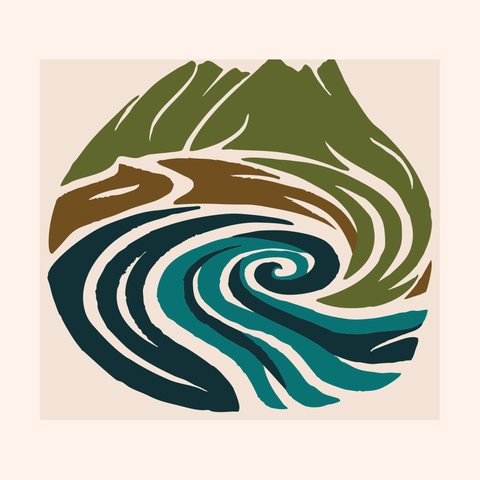
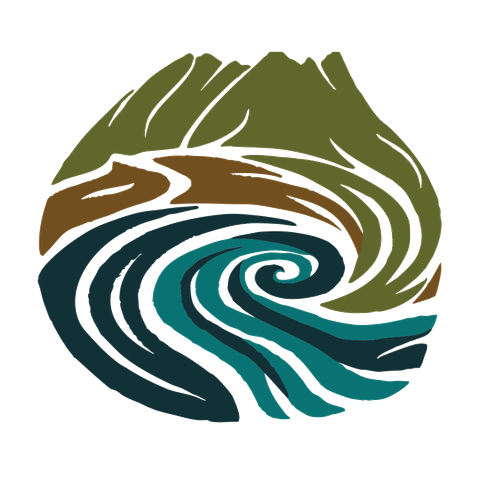
Refine header to brand + add "Why a co-op" section
- Wordmark on one line in a Watkins-like bold sans (Bricolage Grotesque
  stands in), sized to match the logo; solid parchment nav.
- Emblem now transparent-background (light + dark) so it blends into the
  nav/footer instead of sitting on a paper rectangle.
- New "Why a co-op?" section: shared ownership, lower risk, everyone
  invested. Photos/recordings stay as placeholders per request.

diff --git a/styles.css b/styles.css
@@ -36,6 +36,7 @@
      Watkins & Rugpull aren't web-hosted; Playfair Display stands in for the
      display face until the licensed fonts are self-hosted. Inter is exact. */
   --font-display:"Playfair Display", Georgia, "Times New Roman", serif;
+  --font-brand:"Bricolage Grotesque", "Inter", system-ui, sans-serif; /* stands in for Watkins (logo/wordmark) */
   --font-body:"Inter", system-ui, -apple-system, sans-serif;
   --font-script:"Caveat", "Segoe Script", cursive;
   /* drop-in hero image goes here when available */
@@ -83,16 +84,15 @@ p{margin:0}
 .textlink--light{color:var(--on-forest)}
 
 /* ---------- Nav ---------- */
-.nav{position:sticky;top:0;z-index:60;background:color-mix(in srgb,var(--cream) 90%,transparent);
-  backdrop-filter:saturate(1.3) blur(10px);border-bottom:1px solid var(--line)}
-.nav__inner{max-width:var(--maxw);margin:0 auto;padding:14px 28px;display:flex;
+.nav{position:sticky;top:0;z-index:60;background:var(--cream);border-bottom:1px solid var(--line)}
+.nav__inner{max-width:var(--maxw);margin:0 auto;padding:12px 28px;display:flex;
   align-items:center;justify-content:space-between;gap:20px}
-.brand{display:flex;align-items:center;gap:12px;text-decoration:none;color:var(--forest)}
-.brand__emblem{width:46px;height:46px;flex:none}
-.brand__name{font-family:var(--font-display);font-weight:700;font-size:1.05rem;line-height:1;
-  letter-spacing:.01em}
-.brand__tag{font-family:var(--font-body);font-size:.54rem;font-weight:700;letter-spacing:.2em;
-  text-transform:uppercase;color:var(--muted);margin-top:5px}
+.brand{display:flex;align-items:center;gap:13px;text-decoration:none;color:var(--forest)}
+.brand__emblem{width:54px;height:54px;flex:none}
+.brand__name{font-family:var(--font-brand);font-weight:800;font-size:clamp(1.15rem,3.4vw,1.5rem);
+  line-height:.98;letter-spacing:.005em;text-transform:uppercase;white-space:nowrap;color:var(--forest)}
+.brand__tag{font-family:var(--font-body);font-size:.53rem;font-weight:700;letter-spacing:.15em;
+  text-transform:uppercase;color:var(--muted);margin-top:5px;white-space:nowrap}
 .nav__links{display:flex;align-items:center;gap:6px;list-style:none;margin:0;padding:0}
 .nav__links a{text-decoration:none;font-size:.82rem;font-weight:600;letter-spacing:.02em;
   color:var(--ink);opacity:.8;padding:8px 12px;border-radius:8px;transition:opacity .15s,background .15s}
@@ -160,6 +160,18 @@ p{margin:0}
 .value p{font-size:.88rem;color:var(--muted);max-width:20ch}
 @media (max-width:900px){.values__grid{grid-template-columns:repeat(3,1fr);gap:28px}}
 @media (max-width:520px){.values__grid{grid-template-columns:repeat(2,1fr)}}
+
+/* ---------- Why a co-op ---------- */
+.whyco{background:var(--paper);padding-block:clamp(56px,8vw,96px);border-top:1px solid var(--line)}
+.whyco__head{max-width:660px;margin-bottom:2.6rem}
+.whyco h2{font-size:clamp(1.9rem,3.6vw,2.6rem);margin-bottom:.9rem}
+.whyco__lead{color:var(--muted);font-size:1.12rem;max-width:56ch}
+.whyco__grid{display:grid;grid-template-columns:repeat(3,1fr);gap:24px}
+.whyco__item{border-top:2px solid var(--pine);padding-top:16px}
+.whyco__item h3{font-family:var(--font-body);font-weight:800;font-size:.8rem;letter-spacing:.12em;
+  text-transform:uppercase;color:var(--pine);margin-bottom:.5rem}
+.whyco__item p{color:var(--muted);font-size:.98rem}
+@media (max-width:760px){.whyco__grid{grid-template-columns:1fr;gap:20px}}
 
 /* ---------- Cohort (dark, two-column) ---------- */
 .cohort{background:var(--forest);color:var(--on-forest);position:relative;overflow:hidden}

diff --git a/index.html b/index.html
@@ -12,7 +12,7 @@
   <link rel="icon" type="image/png" href="assets/favicon.png">
   <link rel="preconnect" href="https://fonts.googleapis.com">
   <link rel="preconnect" href="https://fonts.gstatic.com" crossorigin>
-  <link rel="stylesheet" href="https://fonts.googleapis.com/css2?family=Playfair+Display:ital,wght@0,500;0,600;0,700;1,500&family=Inter:wght@400;500;600;700;800&family=Caveat:wght@600;700&display=swap">
+  <link rel="stylesheet" href="https://fonts.googleapis.com/css2?family=Playfair+Display:ital,wght@0,500;0,600;0,700;1,500&family=Bricolage+Grotesque:opsz,wght@12..96,700;12..96,800&family=Inter:wght@400;500;600;700;800&family=Caveat:wght@600;700&display=swap">
   <link rel="stylesheet" href="styles.css">
 </head>
 <body>
@@ -24,7 +24,7 @@
     <a class="brand" href="#top" aria-label="Hawaiʻi Co-op Hui home">
       <img class="brand__emblem" src="assets/emblem-light.png" alt="Hawaiʻi Co-op Hui emblem" width="46" height="46">
       <span>
-        <span class="brand__name">HAWAIʻI<br>CO-OP HUI</span>
+        <span class="brand__name">Hawaiʻi Co-op Hui</span>
         <span class="brand__tag">People · ʻĀina · Waiwai · Together</span>
       </span>
     </a>
@@ -108,6 +108,31 @@
       <div class="value">
         <span class="value__icon"><svg viewBox="0 0 24 24" fill="none" stroke="currentColor" stroke-width="1.5" stroke-linejoin="round"><path d="M12 3l9 4.5v9L12 21l-9-4.5v-9L12 3z"/><path d="M12 3v18M3 7.5l18 9M21 7.5l-18 9"/></svg></span>
         <h3>Hana</h3><p>Cooperative practice and collective action</p>
+      </div>
+    </div>
+  </section>
+
+  <!-- ===================== WHY A CO-OP ===================== -->
+  <section id="why-coop" class="whyco">
+    <div class="wrap">
+      <div class="whyco__head">
+        <p class="eyebrow">The co-op difference</p>
+        <h2>Why a co-op?</h2>
+        <p class="whyco__lead">A cooperative is owned by the people who do the work. Ownership, decisions, and profits are shared — so no one carries the risk alone, and everyone has a real stake in whether it succeeds.</p>
+      </div>
+      <div class="whyco__grid">
+        <div class="whyco__item">
+          <h3>Shared ownership</h3>
+          <p>Members own the business together and have an equal voice in how it's run — one member, one vote.</p>
+        </div>
+        <div class="whyco__item">
+          <h3>Lower risk</h3>
+          <p>Costs, resources, and responsibility are carried together instead of resting on one person or family.</p>
+        </div>
+        <div class="whyco__item">
+          <h3>Everyone invested</h3>
+          <p>When ownership is shared, everyone is genuinely invested in the work — and that's what makes co-ops thrive.</p>
+        </div>
       </div>
     </div>
   </section>
